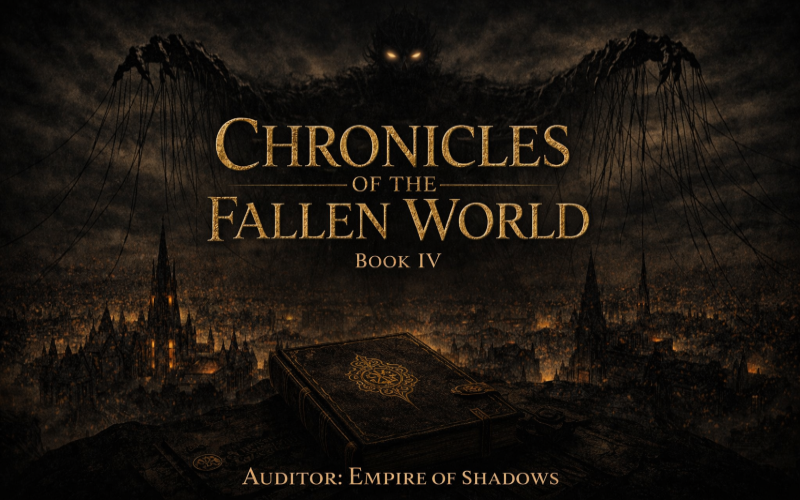
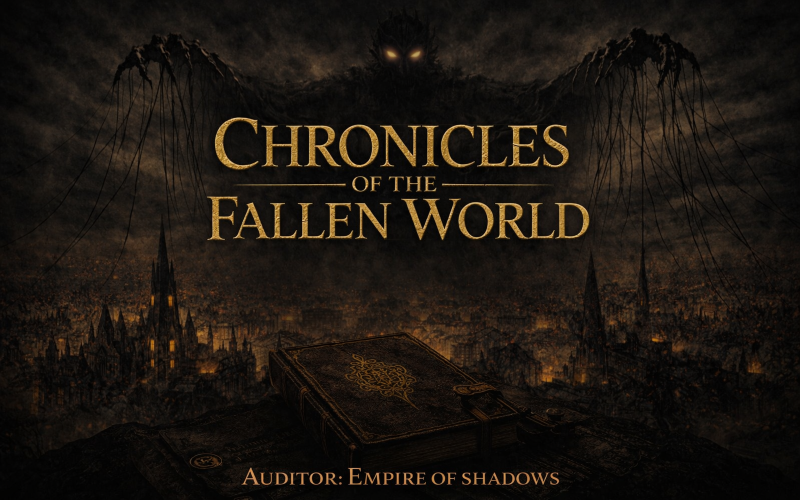
feat: update Chronicle name for clarity and adjust image path

diff --git a/src/data/chronicles.js b/src/data/chronicles.js
@@ -70,7 +70,7 @@ export const CHRONICLES = {
     id: 'empire-of-shadows',
     series: 'Chronicles of the Fallen World',
     book: 'Book IV',
-    name: 'Auditor: Empire of Shadows',
+    name: 'Empire of Shadows',
     image: '/posters/chronicles/cotf/pt2/black-ledger_pt2.png',
     character: '/posters/chronicles/cotf/pt2/black-ledger-char2.png',
     characterName: 'The Auditor',
